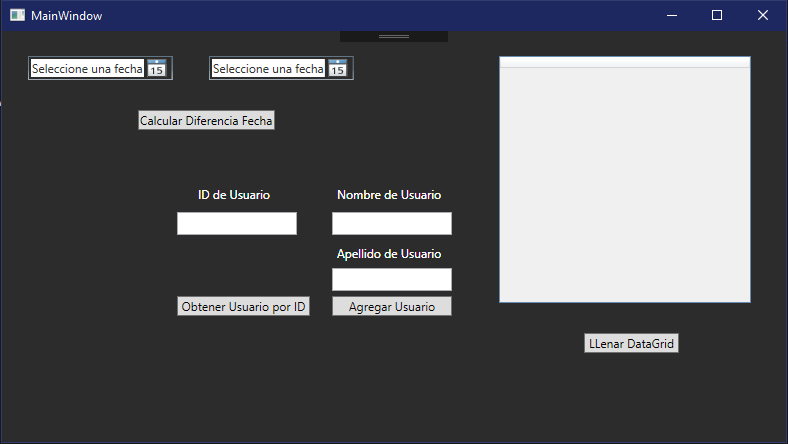
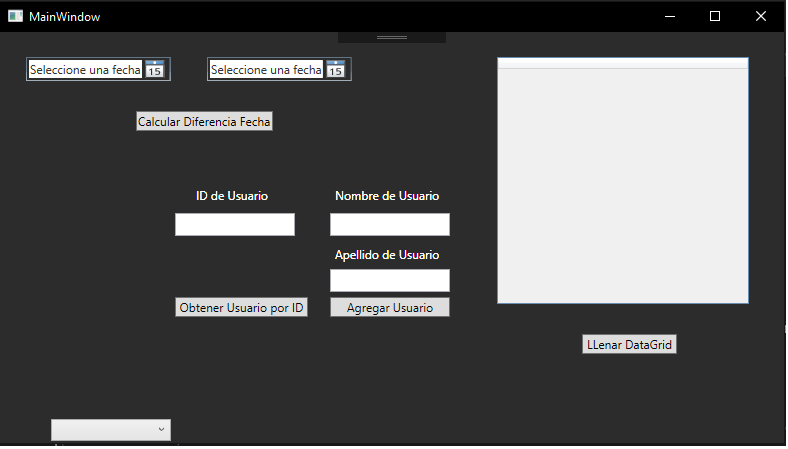
RegistroCivil
Se agrega tabla registro civil y se obtienen en el wpf para obtener los registros desde la BD y mostrarlos en un Combobox

diff --git a/CreadorUsuariosTest/CreadorUsuariosTest/MainWindow.xaml b/CreadorUsuariosTest/CreadorUsuariosTest/MainWindow.xaml
@@ -23,6 +23,7 @@
         <DatePicker x:Name="DP1" HorizontalAlignment="Left" Margin="26,25,0,0" VerticalAlignment="Top"/>
         <DatePicker x:Name="DP2"  HorizontalAlignment="Left" Margin="207,25,0,0" VerticalAlignment="Top"/>
         <Button x:Name="btnCalcularFecha" Content="Calcular Diferencia Fechas" HorizontalAlignment="Left" Margin="136,79,0,0" VerticalAlignment="Top" Width="137" Click="btnCalcularFecha_Click"/>
+        <ComboBox x:Name="cbEstadoCiviles" HorizontalAlignment="Left" Margin="51,387,0,0" VerticalAlignment="Top" Width="120" />
 
     </Grid>
 </Window>

diff --git a/CreadorUsuariosTest/LibreriaClases/EjecutarQuery.cs b/CreadorUsuariosTest/LibreriaClases/EjecutarQuery.cs
@@ -11,10 +11,10 @@ namespace LibreriaClases
     public class EjecutarQuery
     {
 
-        static string connectionString = @"Server = YouServerName; Database=Usuarios;Trusted_Connection=True";
+        static string connectionString = @"Server = DESKTOP-6N3RFB9\SQLEXPRESS; Database=Usuarios;Trusted_Connection=True";
 
         public static List<usuario> listaUsuarios;
-
+        public static List<EstadoCivil> listaEstados;
 
         #region InsertSQL
         public static void insertSQL( string nombre,string apellido)
@@ -24,7 +24,7 @@ namespace LibreriaClases
                 SqlCommand command = new SqlCommand(null, connection);
 
                 // Create and prepare an SQL statement.
-                command.CommandText = "INSERT INTO usuario (nombre, apellido) " + "VALUES (@nombre, @apellido)";             
+                command.CommandText = "INSERT INTO usuario (nombre, apellido) VALUES (@nombre, @apellido)";             
                 command.Parameters.AddWithValue("@nombre", nombre);
                 command.Parameters.AddWithValue("@apellido", apellido);
 
@@ -49,7 +49,8 @@ namespace LibreriaClases
                 SqlCommand command = new SqlCommand(null, connection);
 
                 // Create and prepare an SQL statement.
-                command.CommandText = "INSERT INTO usuario (nombre) " + "VALUES (@nombre)";
+                command.CommandText = "INSERT INTO usuario (nombre) VALUES (@nombre)";
+                
                 command.Parameters.AddWithValue("@nombre", nombre);
 
                 try
@@ -78,17 +79,19 @@ namespace LibreriaClases
                 DataTable dt = new DataTable();
                 // Create and prepare an SQL statement.
                 command.CommandText = $"select * from usuario where id_usuario = {id}";
-
+               
                 try
                 {
                     connection.Open();
                     var DataAdapter = new SqlDataAdapter(command);
                     DataAdapter.Fill(dt);
                     usuario _usuario = new usuario();
-                    listaUsuarios = new List<usuario>();
+                    listaUsuarios = new List<usuario>();                    
+
                     _usuario.id_usuario = int.Parse((dt.Rows[0]["id_usuario"].ToString()));
                     _usuario.nombre = dt.Rows[0]["nombre"].ToString();
                     _usuario.apellido = dt.Rows[0]["apellido"].ToString();
+
                     listaUsuarios.Add(_usuario);
                 }
                 catch (Exception ex)
@@ -110,26 +113,58 @@ namespace LibreriaClases
             {
                 //command nos prepara la query a ejecutar
                 SqlCommand command = new SqlCommand(null, connection);
-                command.CommandText = "select * from usuario ";
+                command.CommandText = "select * from usuario";
 
                 connection.Open();
+
                 var DataAdapter = new SqlDataAdapter(command);
                 DataAdapter.Fill(dt);
+
                 listaUsuarios = new List<usuario>();
 
                 foreach (DataRow row in dt.Rows)
                 {
                     usuario usuarioTemp = new usuario();
+
                     usuarioTemp.id_usuario = int.Parse(row["id_usuario"].ToString());
                     usuarioTemp.nombre = row["nombre"].ToString();
                     usuarioTemp.apellido = row["apellido"].ToString();
+
                     listaUsuarios.Add(usuarioTemp);
                 }
-
-
-
             }
             return listaUsuarios;
+        }
+
+        //se obtienen todos los usuarios en la BD
+        public static List<EstadoCivil> selectAllEstadoCivilSQL()
+        {
+            var dt = new DataTable();
+
+            using (SqlConnection connection = new SqlConnection(connectionString))
+            {
+                //command nos prepara la query a ejecutar
+                SqlCommand command = new SqlCommand(null, connection);
+                command.CommandText = "select * from EstadoCivil";
+
+                connection.Open();
+
+                var DataAdapter = new SqlDataAdapter(command);
+                DataAdapter.Fill(dt);
+
+                listaEstados = new List<EstadoCivil>();
+
+                foreach (DataRow row in dt.Rows)
+                {
+                    EstadoCivil estadoCivil = new EstadoCivil();
+
+                    estadoCivil.id_estadoCivil = int.Parse(row["IdEstadoCivil"].ToString());
+                    estadoCivil.descripcion = row["Descripcion"].ToString();
+
+                    listaEstados.Add(estadoCivil);
+                }
+            }
+            return listaEstados;
         }
         #endregion SelectSQL
 

diff --git a/CreadorUsuariosTest/CreadorUsuariosTest/MainWindow.xaml.cs b/CreadorUsuariosTest/CreadorUsuariosTest/MainWindow.xaml.cs
@@ -23,6 +23,10 @@ namespace CreadorUsuariosTest
         public MainWindow()
         {
             InitializeComponent();
+            if (LibreriaClases.EjecutarQuery.selectAllEstadoCivilSQL().Any())
+            {
+                cbEstadoCiviles.ItemsSource = LibreriaClases.EjecutarQuery.selectAllEstadoCivilSQL().Select(Estado => Estado.descripcion).ToList();
+            }
         }
 
         private void BtnAgregar_Click(object sender, RoutedEventArgs e)
@@ -74,5 +78,6 @@ namespace CreadorUsuariosTest
             MessageBox.Show($"Diferencia Fecha {diferenciaDias}", "Resultado", MessageBoxButton.OK, MessageBoxImage.Asterisk);
 
         }
+
     }
 }

diff --git a/CreadorUsuariosTest/LibreriaClases/EstadoCivil.cs b/CreadorUsuariosTest/LibreriaClases/EstadoCivil.cs
@@ -1,0 +1,15 @@
+using System;
+using System.Collections.Generic;
+using System.Linq;
+using System.Text;
+using System.Threading.Tasks;
+
+namespace LibreriaClases
+{
+    public class EstadoCivil
+    {
+        public int id_estadoCivil { get; set; }
+        public string descripcion { get; set; }
+
+    }
+}
